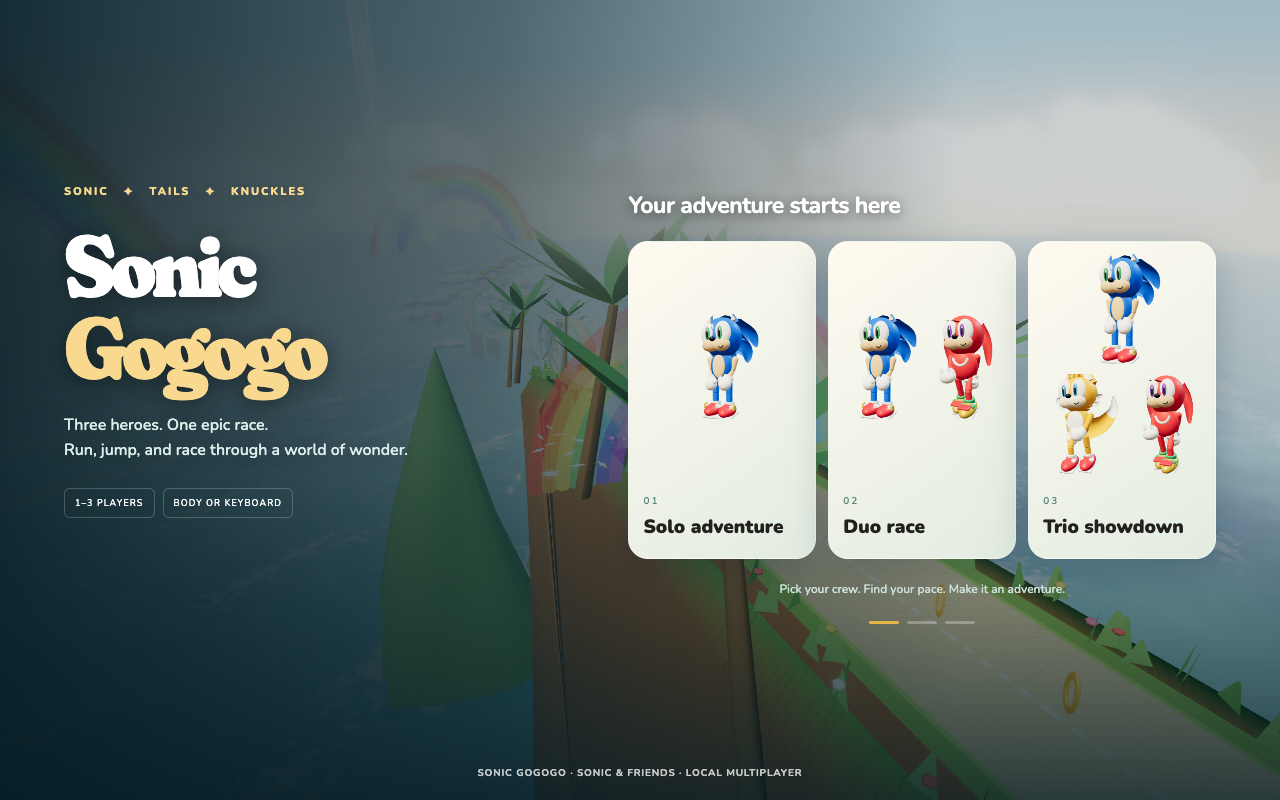
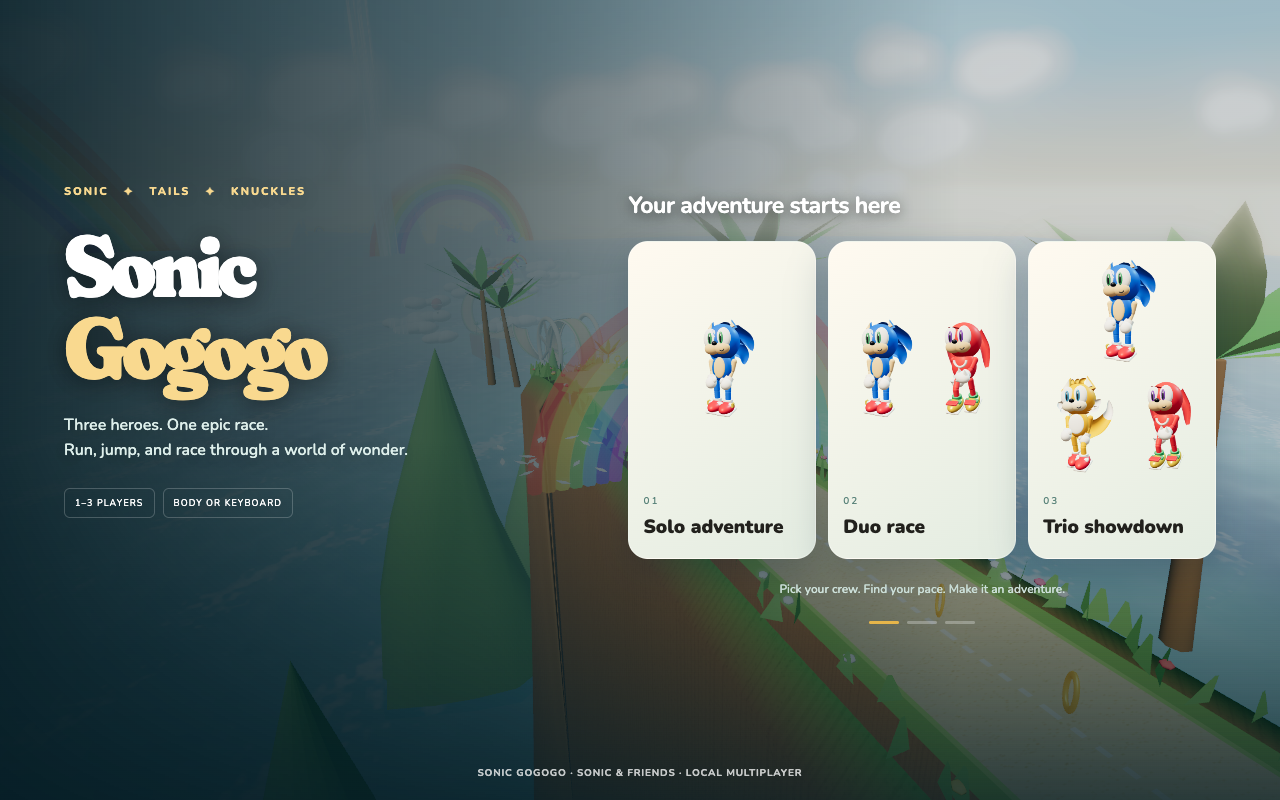
ui: fix portrait clipping, add radio dots to hero select
Portrait camera reframed (wider fov, pulled back) so Tails' ears and
tail no longer hit the render edges; hero cards get a radio-style
selection dot since their choice persists until Next.

diff --git a/public/index.html b/public/index.html
@@ -125,7 +125,9 @@ button:focus-visible{outline:3px solid var(--gold);outline-offset:3px}
 .mode-card .figure{height:230px}.mode-card canvas{width:48%;max-width:140px}
 .mode-card[data-mode="3"] .figure{display:grid;grid-template-columns:1fr 1fr;justify-items:center;align-items:center}
 .mode-card[data-mode="3"] canvas{width:92%;height:110px}
-.mode-card[data-mode="3"] canvas:first-child{grid-column:1/-1}.mode-number{font-size:10px;letter-spacing:.2em;color:#5b847b;margin-bottom:8px}.card:hover{transform:translateY(-7px);border-color:#ffd77d}.card[aria-pressed="true"]{border-color:#e5b252;box-shadow:0 0 0 2px #e5b25266,0 16px 40px #001e3440}.menu-note{font-size:12px;color:#d4e7df;text-align:center;margin:22px 0 0}.stepper{margin-top:24px}.stepper li{height:3px;width:30px}.readlink{font-size:10px;letter-spacing:.08em;bottom:20px}.btn{font-size:15px;padding:13px 24px;border-radius:12px;background:#f6d18a;box-shadow:0 7px 22px #00151b22}.btn.quiet{border:1px solid #ffffff33;background:#ffffff14}.row{margin-top:18px;gap:10px}.card.ninja-card .figure{height:210px}.card.ninja-card canvas{width:158px;height:205px}.card.ninja-card .name{font-size:22px}
+.mode-card[data-mode="3"] canvas:first-child{grid-column:1/-1}.mode-number{font-size:10px;letter-spacing:.2em;color:#5b847b;margin-bottom:8px}.card:hover{transform:translateY(-7px);border-color:#ffd77d}.card[aria-pressed="true"]{border-color:#e5b252;box-shadow:0 0 0 2px #e5b25266,0 16px 40px #001e3440}.menu-note{font-size:12px;color:#d4e7df;text-align:center;margin:22px 0 0}.stepper{margin-top:24px}.stepper li{height:3px;width:30px}.readlink{font-size:10px;letter-spacing:.08em;bottom:20px}.btn{font-size:15px;padding:13px 24px;border-radius:12px;background:#f6d18a;box-shadow:0 7px 22px #00151b22}.btn.quiet{border:1px solid #ffffff33;background:#ffffff14}.row{margin-top:18px;gap:10px}.card.ninja-card .figure{height:212px;margin:-2px -2px 10px}.card.ninja-card canvas{width:158px;height:205px}.card.ninja-card .name{font-size:22px}
+.ninja-card::before{content:"";position:absolute;left:13px;top:13px;width:15px;height:15px;border-radius:50%;border:2px solid #b9c6c2;background:#fff}
+.ninja-card[aria-pressed="true"]::before{border-color:var(--gold-deep);background:radial-gradient(circle,var(--gold-deep) 0 52%,#fff 58%)}
 #start[data-step="3"] .menu-head{top:29%}#start[data-step="3"] .title{font-size:clamp(45px,5.5vw,80px)}.destinations{display:grid;grid-template-columns:repeat(3,1fr);gap:10px}.destinations button{background:#102e3bcf;color:#fff;border:1px solid #ffffff40;border-radius:14px;text-align:left;padding:7px 7px 12px;overflow:hidden}.destinations button[aria-pressed="true"]{border-color:#f6d18a;box-shadow:0 0 0 2px #f6d18a40}.destination-art{display:block;height:65px;border-radius:8px;overflow:hidden}.destination-art svg{width:100%;height:100%;display:block}.tour{background:radial-gradient(ellipse at 30% 140%,#ecc877 40%,transparent 41%),linear-gradient(145deg,#53c6e4,#087887)}.aurora{background:linear-gradient(140deg,#1b315f,#51bda9,#493f97)}.blossom{background:linear-gradient(140deg,#58466e,#e793b2,#f4c9a1)}.destinations b,.destinations small{display:block;padding:7px 3px 0}.destinations b{font-size:13px}.destinations small{font-size:10px;color:#c5dcdf;padding-top:2px}.control-label{color:#f4d68e;font-size:10px;letter-spacing:.14em;margin:20px 0 8px}.control-label span{float:right;letter-spacing:0;color:#abc8cd}.moves{grid-template-columns:repeat(3,1fr);gap:2px 16px;background:#0d2a37b0;border:1px solid #ffffff1f;border-radius:12px;padding:10px 14px}.move{padding:5px 0;border-radius:0;background:none;cursor:default;gap:8px}.move svg{width:28px;height:28px}.move b{font:800 12px Nunito,sans-serif;color:#fff}.move span{font-size:9px;line-height:1.35;color:#a9c6cb}#keyboardGuide{font-size:10px;color:#d0e1e2;line-height:1.7;margin-top:10px}
 .game-controls{position:fixed;right:24px;top:82px;z-index:20}.game-controls button{color:#fff;background:#102d3bba;padding:9px 14px;border:1px solid #ffffff30;border-radius:10px;font-size:12px}#pausePanel{z-index:30;background:#092535bb;backdrop-filter:blur(12px)}#pausePanel .eyebrow{color:#8fb5b0;margin-bottom:18px}#pausePanel .quiet{color:#d9e6e4}.hud-top{gap:12px}.rings,.timer{border:1px solid #ffffff30;background:#0c293cc9;border-radius:14px;font-family:Nunito,sans-serif;font-size:22px}.rings.two{font-size:14px}.rings.two em{padding:3px 7px}.course-status{position:absolute;left:50%;transform:translateX(-50%);width:210px;text-align:center;background:#0c293cc9;border:1px solid #ffffff25;color:#fff;padding:9px 14px;border-radius:12px;font-size:12px}.course-line{height:3px;background:#ffffff30;margin:6px 0 3px;border-radius:2px;overflow:hidden}.course-line i{display:block;height:100%;background:#f6d18a;width:0}.course-status small{font-size:9px;color:#c8e0e6}.speedo{padding:16px;background:#0c293ccb;backdrop-filter:blur(8px);border:1px solid #ffffff25;border-radius:16px;width:230px}.speedo .bar{height:6px}.speedo label{font-size:11px}.speedo .boost{height:3px}.speedo .row2{margin-top:13px}.prompt{top:110px}.prompt b{font:900 28px Nunito,sans-serif}.prompt svg{width:42px;height:42px}.hint{bottom:24px;font-size:12px;max-width:40vw;text-align:center;white-space:normal}.result{width:min(900px,94vw);max-width:100%}.col{box-shadow:0 12px 34px rgba(0,20,35,.3)}.stat{box-shadow:0 12px 34px rgba(0,20,35,.3)}.col{min-width:180px}.rings.two em.tails{box-shadow:inset 0 0 0 2px #55c7e4}
 @media(max-width:1050px){.menu-head{width:34%;top:25%}.panel{width:60%}.title{font-size:7vw}.hero-copy{font-size:13px}.hero-badges{flex-wrap:wrap}.card .name{font-size:16px}.card canvas{width:90px}.course-status{top:60px;width:160px}.prompt{top:140px}}
@@ -1056,7 +1058,7 @@ const portraitCanvases=[...document.querySelectorAll('canvas[data-fig]')];
 if(portraitCanvases.length){
   const pr=new THREE.WebGLRenderer({alpha:true,antialias:true,preserveDrawingBuffer:true});pr.setSize(256,320);pr.setPixelRatio(1);pr.toneMapping=THREE.ACESFilmicToneMapping;pr.toneMappingExposure=1.25;pr.outputColorSpace=THREE.SRGBColorSpace;
   const ps=new THREE.Scene();ps.add(new THREE.HemisphereLight(0xeaf7ff,0x8b7763,2));const keyLight=new THREE.DirectionalLight(0xffecd0,3);keyLight.position.set(-3,5,4);ps.add(keyLight);const rim=new THREE.DirectionalLight(0x8cdce8,2);rim.position.set(3,3,-2);ps.add(rim);
-  const pc=new THREE.PerspectiveCamera(31,.8,.1,30);pc.position.set(0,1.25,4.4);pc.lookAt(0,1.08,0);
+  const pc=new THREE.PerspectiveCamera(33,.8,.1,30);pc.position.set(0,1.28,4.6);pc.lookAt(0,1.12,0); // framed so ears and tails clear the render edges
   const portraitRigs={},portraitsByKey={};
   for(const key of ['sonic','tails','knuckles']){portraitRigs[key]=buildRunner(key);portraitsByKey[key]=portraitCanvases.filter(c=>c.dataset.fig===key);}
   function posePortrait(key,t){ const rig=portraitRigs[key],R=rig.userData.rig; const ph=t*6.5+({sonic:0,tails:2.1,knuckles:4.2})[key]; const s1=Math.sin(ph),s2=Math.sin(ph+Math.PI);

diff --git a/src/1_head.html b/src/1_head.html
@@ -125,7 +125,9 @@ button:focus-visible{outline:3px solid var(--gold);outline-offset:3px}
 .mode-card .figure{height:230px}.mode-card canvas{width:48%;max-width:140px}
 .mode-card[data-mode="3"] .figure{display:grid;grid-template-columns:1fr 1fr;justify-items:center;align-items:center}
 .mode-card[data-mode="3"] canvas{width:92%;height:110px}
-.mode-card[data-mode="3"] canvas:first-child{grid-column:1/-1}.mode-number{font-size:10px;letter-spacing:.2em;color:#5b847b;margin-bottom:8px}.card:hover{transform:translateY(-7px);border-color:#ffd77d}.card[aria-pressed="true"]{border-color:#e5b252;box-shadow:0 0 0 2px #e5b25266,0 16px 40px #001e3440}.menu-note{font-size:12px;color:#d4e7df;text-align:center;margin:22px 0 0}.stepper{margin-top:24px}.stepper li{height:3px;width:30px}.readlink{font-size:10px;letter-spacing:.08em;bottom:20px}.btn{font-size:15px;padding:13px 24px;border-radius:12px;background:#f6d18a;box-shadow:0 7px 22px #00151b22}.btn.quiet{border:1px solid #ffffff33;background:#ffffff14}.row{margin-top:18px;gap:10px}.card.ninja-card .figure{height:210px}.card.ninja-card canvas{width:158px;height:205px}.card.ninja-card .name{font-size:22px}
+.mode-card[data-mode="3"] canvas:first-child{grid-column:1/-1}.mode-number{font-size:10px;letter-spacing:.2em;color:#5b847b;margin-bottom:8px}.card:hover{transform:translateY(-7px);border-color:#ffd77d}.card[aria-pressed="true"]{border-color:#e5b252;box-shadow:0 0 0 2px #e5b25266,0 16px 40px #001e3440}.menu-note{font-size:12px;color:#d4e7df;text-align:center;margin:22px 0 0}.stepper{margin-top:24px}.stepper li{height:3px;width:30px}.readlink{font-size:10px;letter-spacing:.08em;bottom:20px}.btn{font-size:15px;padding:13px 24px;border-radius:12px;background:#f6d18a;box-shadow:0 7px 22px #00151b22}.btn.quiet{border:1px solid #ffffff33;background:#ffffff14}.row{margin-top:18px;gap:10px}.card.ninja-card .figure{height:212px;margin:-2px -2px 10px}.card.ninja-card canvas{width:158px;height:205px}.card.ninja-card .name{font-size:22px}
+.ninja-card::before{content:"";position:absolute;left:13px;top:13px;width:15px;height:15px;border-radius:50%;border:2px solid #b9c6c2;background:#fff}
+.ninja-card[aria-pressed="true"]::before{border-color:var(--gold-deep);background:radial-gradient(circle,var(--gold-deep) 0 52%,#fff 58%)}
 #start[data-step="3"] .menu-head{top:29%}#start[data-step="3"] .title{font-size:clamp(45px,5.5vw,80px)}.destinations{display:grid;grid-template-columns:repeat(3,1fr);gap:10px}.destinations button{background:#102e3bcf;color:#fff;border:1px solid #ffffff40;border-radius:14px;text-align:left;padding:7px 7px 12px;overflow:hidden}.destinations button[aria-pressed="true"]{border-color:#f6d18a;box-shadow:0 0 0 2px #f6d18a40}.destination-art{display:block;height:65px;border-radius:8px;overflow:hidden}.destination-art svg{width:100%;height:100%;display:block}.tour{background:radial-gradient(ellipse at 30% 140%,#ecc877 40%,transparent 41%),linear-gradient(145deg,#53c6e4,#087887)}.aurora{background:linear-gradient(140deg,#1b315f,#51bda9,#493f97)}.blossom{background:linear-gradient(140deg,#58466e,#e793b2,#f4c9a1)}.destinations b,.destinations small{display:block;padding:7px 3px 0}.destinations b{font-size:13px}.destinations small{font-size:10px;color:#c5dcdf;padding-top:2px}.control-label{color:#f4d68e;font-size:10px;letter-spacing:.14em;margin:20px 0 8px}.control-label span{float:right;letter-spacing:0;color:#abc8cd}.moves{grid-template-columns:repeat(3,1fr);gap:2px 16px;background:#0d2a37b0;border:1px solid #ffffff1f;border-radius:12px;padding:10px 14px}.move{padding:5px 0;border-radius:0;background:none;cursor:default;gap:8px}.move svg{width:28px;height:28px}.move b{font:800 12px Nunito,sans-serif;color:#fff}.move span{font-size:9px;line-height:1.35;color:#a9c6cb}#keyboardGuide{font-size:10px;color:#d0e1e2;line-height:1.7;margin-top:10px}
 .game-controls{position:fixed;right:24px;top:82px;z-index:20}.game-controls button{color:#fff;background:#102d3bba;padding:9px 14px;border:1px solid #ffffff30;border-radius:10px;font-size:12px}#pausePanel{z-index:30;background:#092535bb;backdrop-filter:blur(12px)}#pausePanel .eyebrow{color:#8fb5b0;margin-bottom:18px}#pausePanel .quiet{color:#d9e6e4}.hud-top{gap:12px}.rings,.timer{border:1px solid #ffffff30;background:#0c293cc9;border-radius:14px;font-family:Nunito,sans-serif;font-size:22px}.rings.two{font-size:14px}.rings.two em{padding:3px 7px}.course-status{position:absolute;left:50%;transform:translateX(-50%);width:210px;text-align:center;background:#0c293cc9;border:1px solid #ffffff25;color:#fff;padding:9px 14px;border-radius:12px;font-size:12px}.course-line{height:3px;background:#ffffff30;margin:6px 0 3px;border-radius:2px;overflow:hidden}.course-line i{display:block;height:100%;background:#f6d18a;width:0}.course-status small{font-size:9px;color:#c8e0e6}.speedo{padding:16px;background:#0c293ccb;backdrop-filter:blur(8px);border:1px solid #ffffff25;border-radius:16px;width:230px}.speedo .bar{height:6px}.speedo label{font-size:11px}.speedo .boost{height:3px}.speedo .row2{margin-top:13px}.prompt{top:110px}.prompt b{font:900 28px Nunito,sans-serif}.prompt svg{width:42px;height:42px}.hint{bottom:24px;font-size:12px;max-width:40vw;text-align:center;white-space:normal}.result{width:min(900px,94vw);max-width:100%}.col{box-shadow:0 12px 34px rgba(0,20,35,.3)}.stat{box-shadow:0 12px 34px rgba(0,20,35,.3)}.col{min-width:180px}.rings.two em.tails{box-shadow:inset 0 0 0 2px #55c7e4}
 @media(max-width:1050px){.menu-head{width:34%;top:25%}.panel{width:60%}.title{font-size:7vw}.hero-copy{font-size:13px}.hero-badges{flex-wrap:wrap}.card .name{font-size:16px}.card canvas{width:90px}.course-status{top:60px;width:160px}.prompt{top:140px}}

diff --git a/src/5_chars.js b/src/5_chars.js
@@ -145,7 +145,7 @@ const portraitCanvases=[...document.querySelectorAll('canvas[data-fig]')];
 if(portraitCanvases.length){
   const pr=new THREE.WebGLRenderer({alpha:true,antialias:true,preserveDrawingBuffer:true});pr.setSize(256,320);pr.setPixelRatio(1);pr.toneMapping=THREE.ACESFilmicToneMapping;pr.toneMappingExposure=1.25;pr.outputColorSpace=THREE.SRGBColorSpace;
   const ps=new THREE.Scene();ps.add(new THREE.HemisphereLight(0xeaf7ff,0x8b7763,2));const keyLight=new THREE.DirectionalLight(0xffecd0,3);keyLight.position.set(-3,5,4);ps.add(keyLight);const rim=new THREE.DirectionalLight(0x8cdce8,2);rim.position.set(3,3,-2);ps.add(rim);
-  const pc=new THREE.PerspectiveCamera(31,.8,.1,30);pc.position.set(0,1.25,4.4);pc.lookAt(0,1.08,0);
+  const pc=new THREE.PerspectiveCamera(33,.8,.1,30);pc.position.set(0,1.28,4.6);pc.lookAt(0,1.12,0); // framed so ears and tails clear the render edges
   const portraitRigs={},portraitsByKey={};
   for(const key of ['sonic','tails','knuckles']){portraitRigs[key]=buildRunner(key);portraitsByKey[key]=portraitCanvases.filter(c=>c.dataset.fig===key);}
   function posePortrait(key,t){ const rig=portraitRigs[key],R=rig.userData.rig; const ph=t*6.5+({sonic:0,tails:2.1,knuckles:4.2})[key]; const s1=Math.sin(ph),s2=Math.sin(ph+Math.PI);
